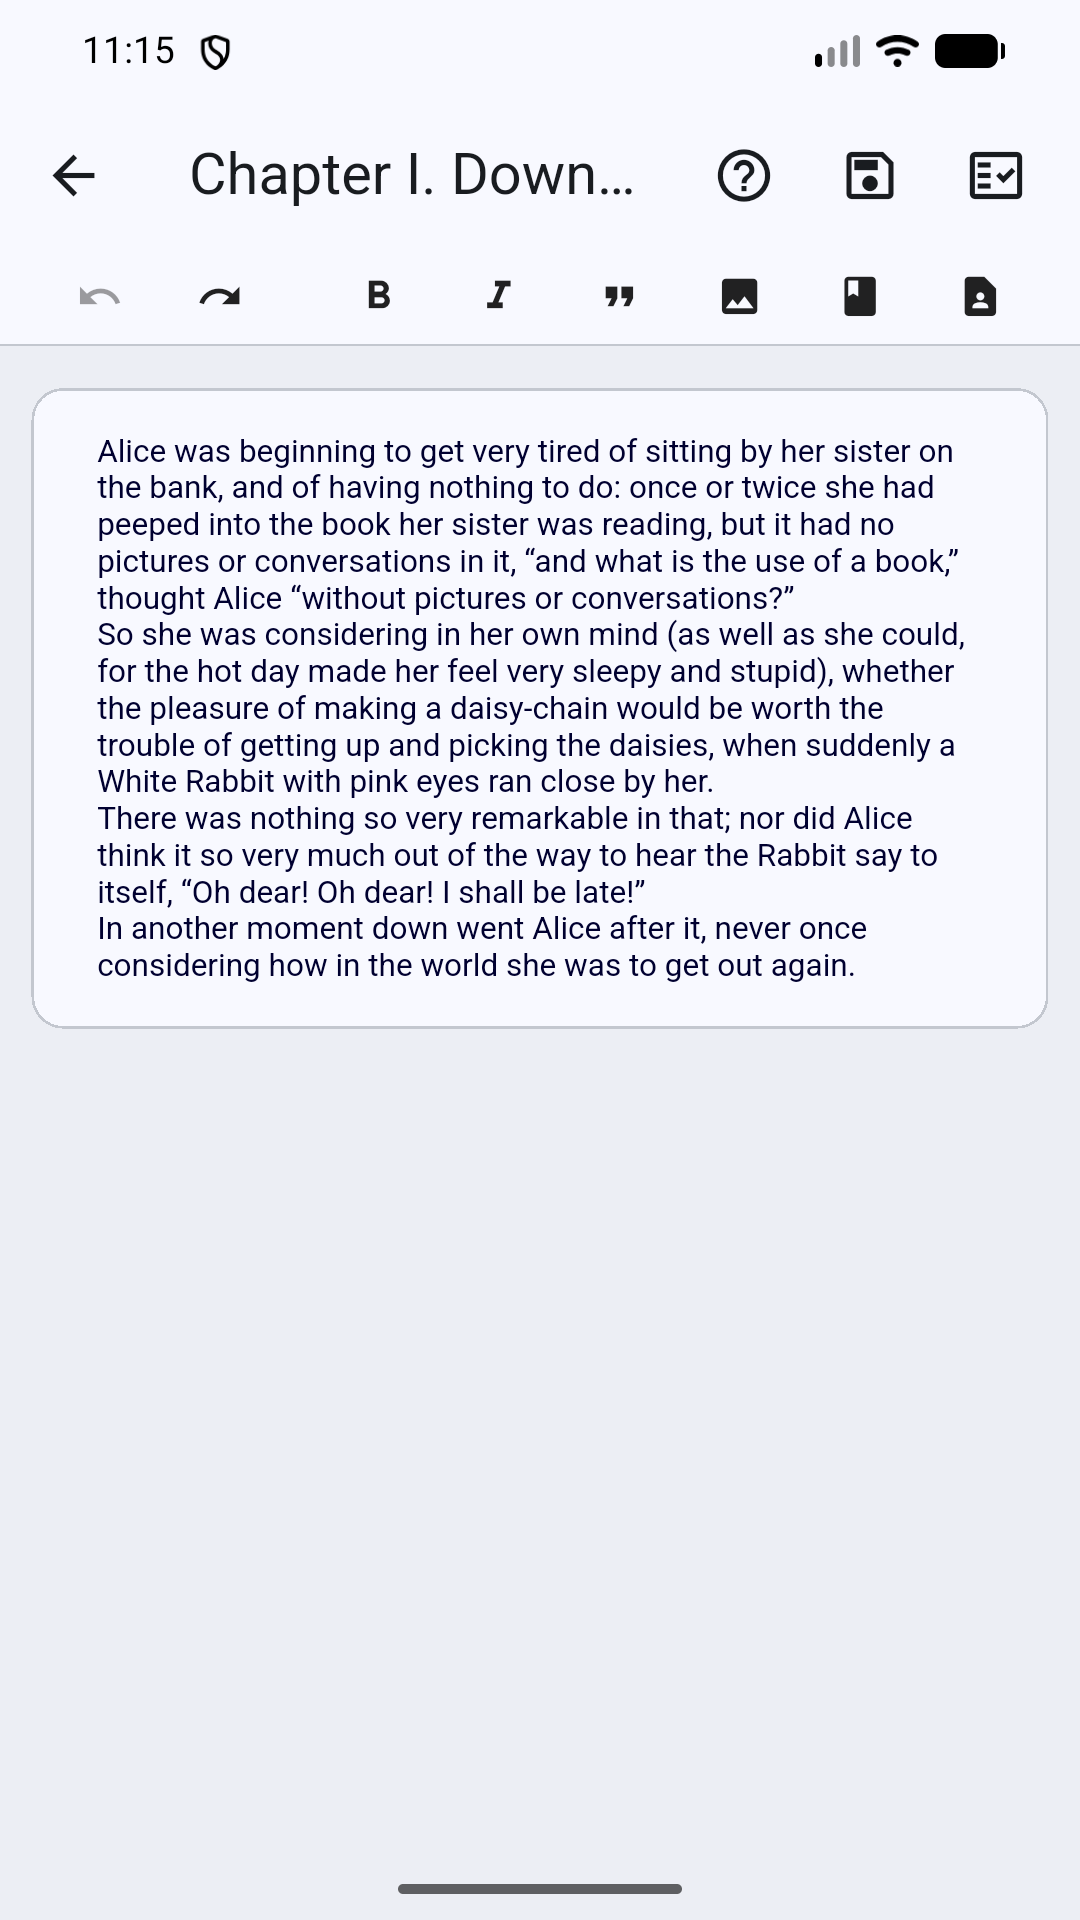
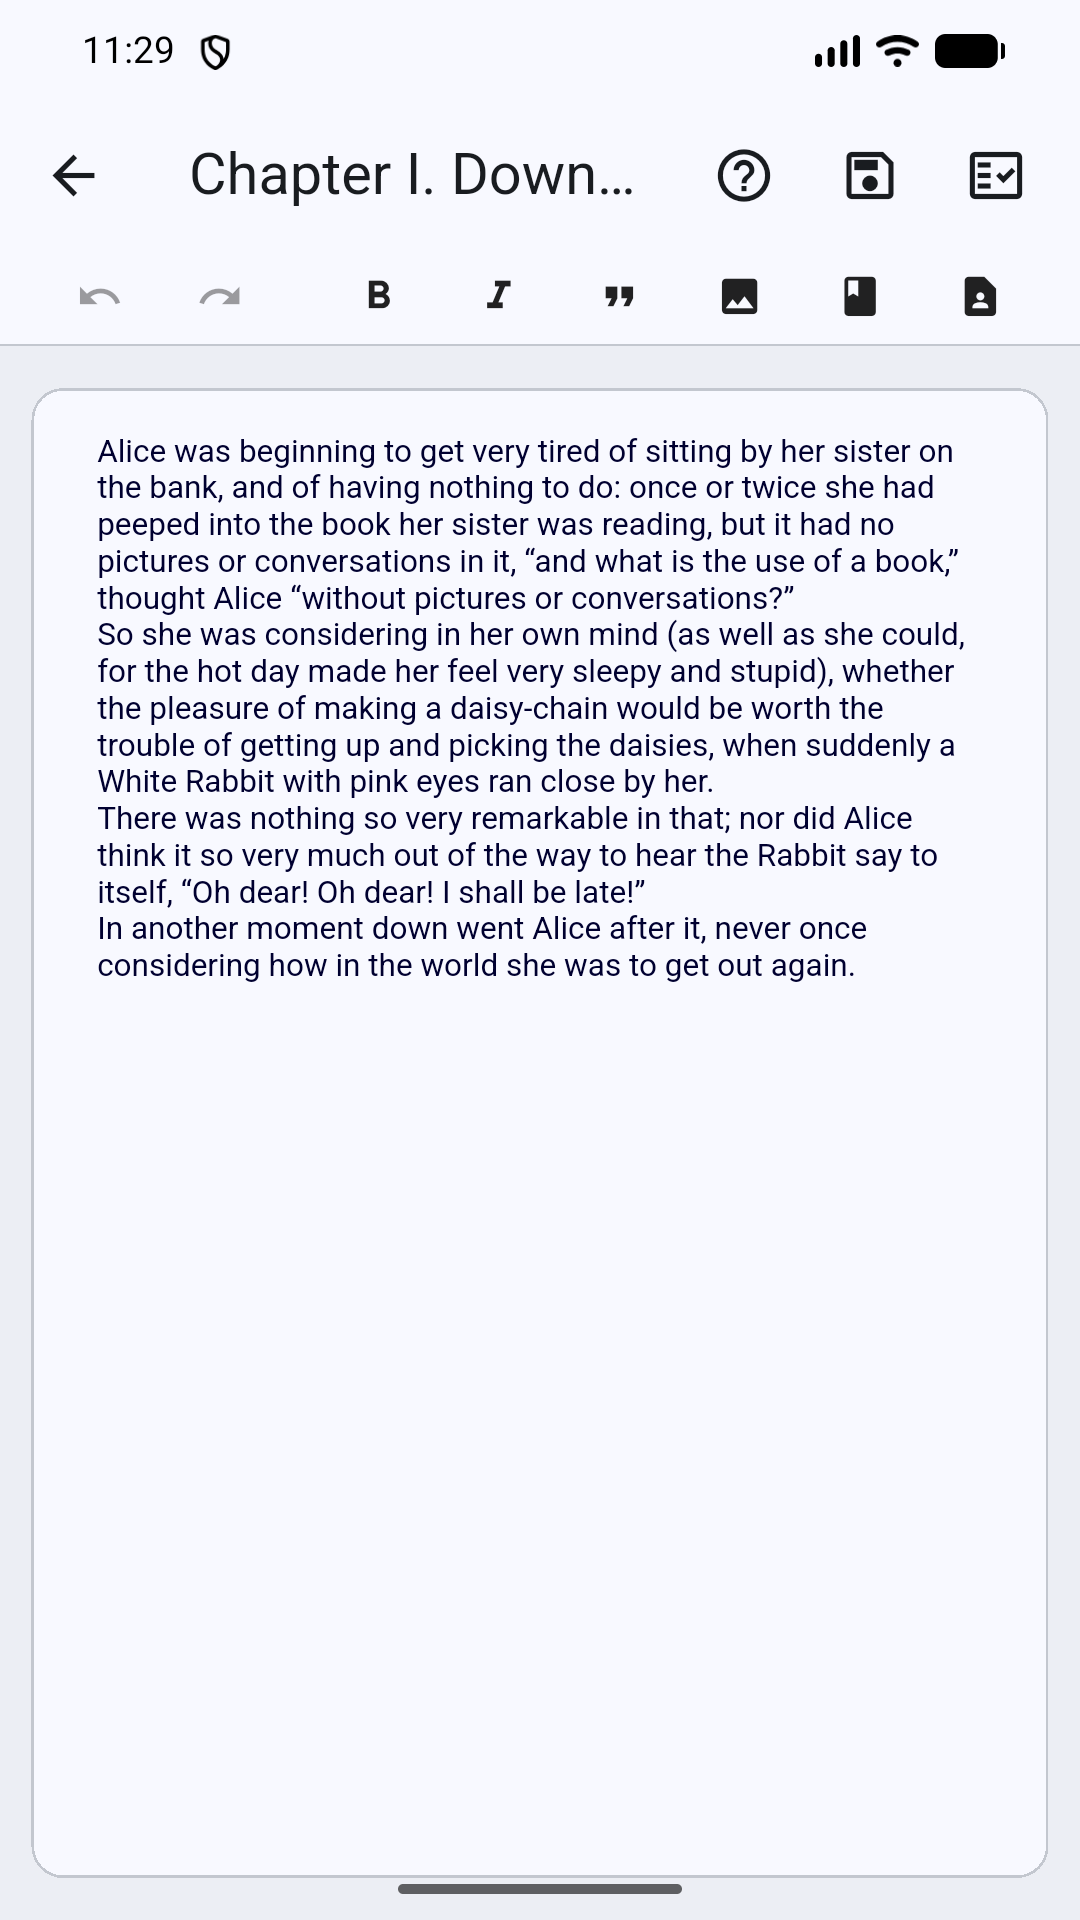
fix

Changed region(s): [[0.7639, 0.0, 0.7944, 0.0312], [0.1222, 0.0, 0.1528, 0.0312]]

diff --git a/lib/widgets/section_editor/editor.dart b/lib/widgets/section_editor/editor.dart
@@ -40,6 +40,8 @@ class _SectionEditorState extends State<SectionEditor>
   String clipboardText = '';
   Map state = {};
   final picker = ImagePicker();
+  final _scrollController = ScrollController();
+  final _focusNode = FocusNode();
 
   void changePage(int? index) {
     setState(() {
@@ -90,6 +92,8 @@ class _SectionEditorState extends State<SectionEditor>
   @override
   void dispose() {
     WidgetsBinding.instance.removeObserver(this);
+    _scrollController.dispose();
+    _focusNode.dispose();
     super.dispose();
   }
 
@@ -418,8 +422,8 @@ class _SectionEditorState extends State<SectionEditor>
               child: EditorPage(
                   child: QuillEditor(
                       controller: _controller,
-                      scrollController: ScrollController(),
-                      focusNode: FocusNode(),
+                      scrollController: _scrollController,
+                      focusNode: _focusNode,
                       config: QuillEditorConfig(
                         autoFocus: true,
                         customStyles: DefaultStyles(
@@ -476,7 +480,9 @@ class EditorPage extends StatelessWidget {
     return PageBody(
         max: 760,
         child: Container(
-          margin: const EdgeInsets.fromLTRB(12, 16, 12, 72),
+          // fill the space above the keyboard so the card tracks the resize
+          height: double.infinity,
+          margin: const EdgeInsets.fromLTRB(12, 16, 12, 16),
           padding: const EdgeInsets.symmetric(horizontal: 24, vertical: 16),
           decoration: BoxDecoration(
               color: c.surface,
